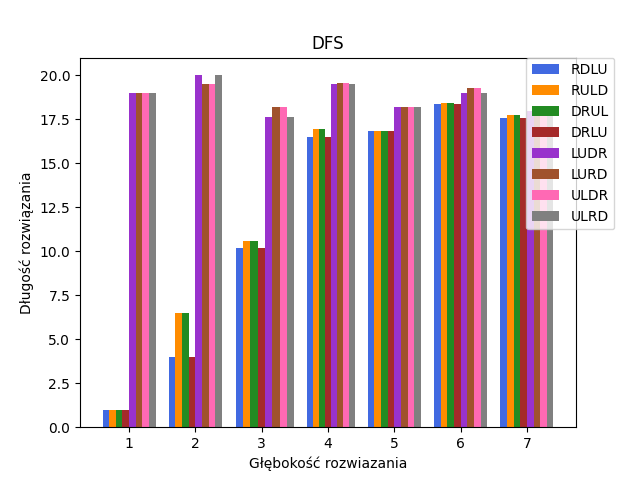
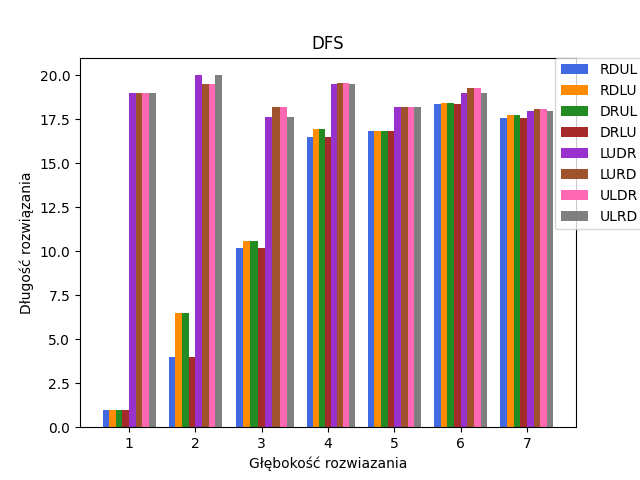
update dfs and bfs graphs

Changed region(s): [[0.8125, 0.125, 1.0, 0.5]]

diff --git a/fifteen-puzzle-project/graphs.py b/fifteen-puzzle-project/graphs.py
@@ -225,10 +225,10 @@ def dfs_graph(data, nr_criterion, name_criterion, name_file, use_log_scale):
     plt.xlabel('Głębokość rozwiazania')
     plt.ylabel(name_criterion)
     if nr_criterion == 1 or nr_criterion == 2 or nr_criterion == 3 or nr_criterion == 4:
-        plt.legend(('RDLU', 'RULD', 'DRUL', 'DRLU', 'LUDR', 'LURD', 'ULDR', 'ULRD'), loc='upper right',bbox_to_anchor=(0.96, 0.88), borderaxespad=0.,
+        plt.legend(('RDUL', 'RDLU', 'DRUL', 'DRLU', 'LUDR', 'LURD', 'ULDR', 'ULRD'), loc='upper right',bbox_to_anchor=(1.005, 0.88), borderaxespad=0.,
            bbox_transform=plt.gcf().transFigure)
     else:
-        plt.legend(('RDLU', 'RULD', 'DRUL', 'DRLU', 'LUDR', 'LURD', 'ULDR', 'ULRD'), loc='upper left')
+        plt.legend(('RDUL', 'RDLU', 'DRUL', 'DRLU', 'LUDR', 'LURD', 'ULDR', 'ULRD'), loc='upper left')
 
 
     # Jeśli strange_numbers ma wartość True, ustawiamy skalę osi
@@ -307,19 +307,21 @@ def bfs_graph(data, nr_criterion, name_criterion, name_file, use_log_scale):
     # Tworzenie histogramu, który przedstawia rozkład wartości kryterium dla każdego z ruchów.
     x = [1, 2, 3, 4, 5, 6, 7]
     plt.hist([x, x, x, x, x, x, x, x],
-             weights=[avg_RDLU_table, avg_RDUL_table, avg_DRUL_table, avg_DRLU_table,
-                      avg_LUDR_table, avg_LURD_table, avg_ULDR_table, avg_ULRD_table],
-             label=['RDLU', 'RULD', 'DRUL', 'DRLU', 'LUDR', 'LURD', 'ULDR', 'ULRD'],
-             color=['grey', 'purple', 'blue', 'lightblue', 'green', 'yellow', 'orange', 'red'],
+             # Wagi dla każdego ruchu
+             weights=[avg_RDUL_table, avg_RDLU_table, avg_DRUL_table, avg_DRLU_table, avg_LUDR_table, avg_LURD_table,
+                      avg_ULDR_table, avg_ULRD_table],
+             # Etykiety dla każdego ruchu
+             label=['RDUL', 'RDLU', 'DRUL', 'DRLU', 'LUDR', 'LURD', 'ULDR', 'ULRD'],
+             # Kolory dla każdego ruchu
+             color=['#4169E1', '#FF8C00', '#228B22', '#A52A2A', '#9932CC', '#A0522D', '#FF69B4', '#808080'],
+             # Zakresy przedziałów histogramu
              bins=[0.5, 1.5, 2.5, 3.6, 4.5, 5.5, 6.5, 7.5])
 
     # Ustawienie tytułu oraz etykiet osi na wykresie.
     plt.title('BFS')
     plt.xlabel('Głębokość rozwiązania')
     plt.ylabel(name_criterion)
-
-    # Dodanie legendy oraz ustawienie jej położenia.
-    plt.legend(('RDLU', 'RULD', 'DRUL', 'DRLU', 'LUDR', 'LURD', 'ULDR', 'ULRD'), loc='upper left')
+    plt.legend(('RDUL', 'RDLU', 'DRUL', 'DRLU', 'LUDR', 'LURD', 'ULDR', 'ULRD'), loc='upper left')
 
     # Opcjonalne ustawienie skali osi Y na logarytmiczną.
     if use_log_scale is True:
